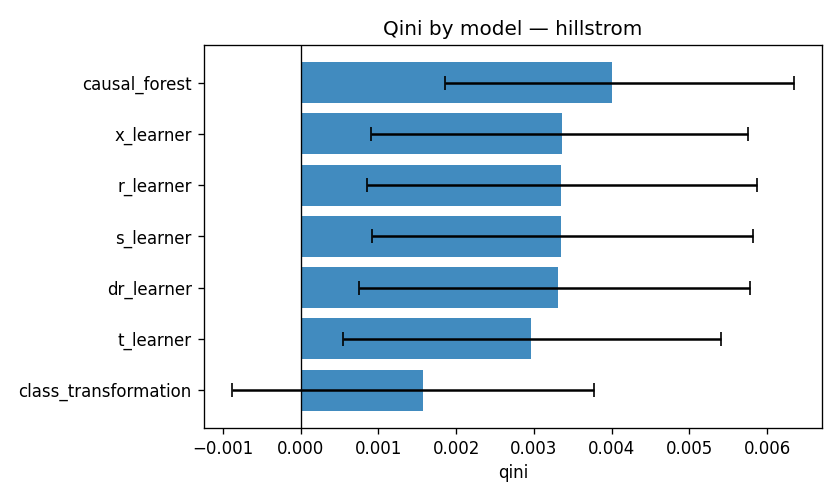
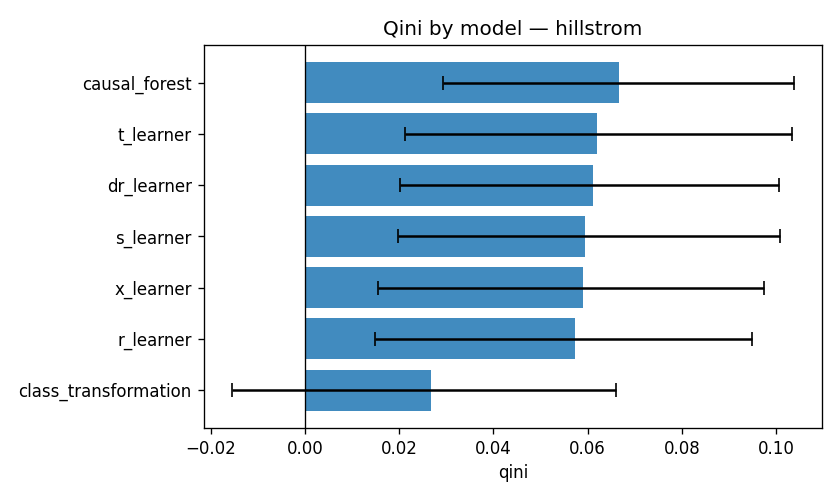
refactor(results): consolidate to per_dataset/ + add results/README + .vscode settings

diff --git a/scripts/run_full_benchmark.py b/scripts/run_full_benchmark.py
@@ -53,6 +53,19 @@ def _build_dataset_cfg(name: str, data_dir: str, criteo_subsample: int | None) -
             "subsample": criteo_subsample,
             "subsample_seed": 42,
         }
+    elif name == "synthetic":
+        # Confounded heterogeneous DGP: meta-learners that handle
+        # propensity should clearly beat S/T baselines here.
+        base["loader_params"] = {
+            "n_samples": 10_000,
+            "n_features": 10,
+            "n_informative_uplift": 4,
+            "treatment_share": 0.5,
+            "propensity_drift": 1.5,
+            "noise": 0.5,
+            "outcome": "binary",
+            "seed": 0,
+        }
     return base
 
 
@@ -181,14 +194,20 @@ def main() -> int:
         return 1
 
     df = aggregate_results(results)
-    csv_path = results_dir / "benchmark_results.csv"
-    md_path = results_dir / "benchmark_results.md"
-    df.to_csv(csv_path, index=False)
-    write_markdown_table(df, md_path)
+    # Write one CSV/MD per dataset under results/per_dataset/. The aggregate
+    # summary (mean ± std across seeds) is produced by aggregate_results.py.
+    per_dataset_dir = results_dir / "per_dataset"
+    per_dataset_dir.mkdir(parents=True, exist_ok=True)
+    written: list[str] = []
+    for ds_name, sub in df.groupby("dataset"):
+        ds_csv = per_dataset_dir / f"{ds_name}.csv"
+        ds_md = per_dataset_dir / f"{ds_name}.md"
+        sub.to_csv(ds_csv, index=False)
+        write_markdown_table(sub, ds_md)
+        written.append(str(ds_csv))
     log.info(
         "benchmark_done",
-        results_csv=str(csv_path),
-        md=str(md_path),
+        per_dataset_csvs=written,
         n_runs=len(results),
         n_failures=len(failures),
     )

diff --git a/scripts/aggregate_results.py b/scripts/aggregate_results.py
@@ -1,10 +1,11 @@
 """Aggregate per-seed runs into a single per-(dataset, model) summary.
 
-Reads `results/<dataset>_results.csv` files (one per dataset run) and
+Reads `results/per_dataset/<dataset>.csv` files (one per dataset run) and
 writes:
     results/benchmark_summary.csv     — per (dataset, model) means / stds
     results/benchmark_summary.md      — markdown for the README
     results/figures/qini_<dataset>.png — bar chart with CIs
+    results/figures/heatmap_qini.png   — model x dataset heatmap (>= 2 datasets)
 """
 
 from __future__ import annotations
@@ -23,7 +24,9 @@ def main() -> int:
     parser = argparse.ArgumentParser()
     parser.add_argument("--results-dir", default="results")
     parser.add_argument(
-        "--inputs", nargs="+", help="explicit list of CSVs; default = results/*_results.csv"
+        "--inputs",
+        nargs="+",
+        help="explicit list of CSVs; default = results/per_dataset/*.csv",
     )
     args = parser.parse_args()
 
@@ -31,7 +34,7 @@ def main() -> int:
     if args.inputs:
         csvs = [Path(p) for p in args.inputs]
     else:
-        csvs = sorted(results_dir.glob("*_results.csv"))
+        csvs = sorted((results_dir / "per_dataset").glob("*.csv"))
     if not csvs:
         raise SystemExit(f"no per-dataset CSVs found under {results_dir}/")
 

diff --git a/results/README.md b/results/README.md
@@ -1,0 +1,41 @@
+# Benchmark results
+
+Real numbers produced by the benchmark pipeline. Layout:
+
+```
+results/
+├── benchmark_summary.csv        ← all (dataset, model) rows, with mean ± std across seeds
+├── benchmark_summary.md         ← same, formatted for the README
+├── per_dataset/                 ← one CSV/MD per dataset (every seed as a row)
+│   ├── hillstrom.csv
+│   ├── hillstrom.md
+│   ├── criteo.csv
+│   ├── criteo.md
+│   └── …
+└── figures/                     ← committed plots referenced from README & docs
+    ├── qini_<dataset>.png       ← per-dataset bar chart with bootstrap CIs
+    └── heatmap_qini.png         ← model × dataset heatmap (when ≥ 2 datasets)
+```
+
+## How the files relate
+
+* The per-dataset CSVs are the primary artefact — each row is one
+  `(model, seed)` evaluation with point estimate + 95% BCa bootstrap CI.
+* `benchmark_summary.{csv,md}` is the aggregate produced by
+  [`scripts/aggregate_results.py`](https://github.com/yablochnikovds/uplift-bench/blob/main/scripts/aggregate_results.py)
+  (mean / std across seeds per (dataset, model) cell).
+* `figures/` is regenerated by the same aggregate script.
+
+## Reproducing
+
+```bash
+uv run python scripts/run_full_benchmark.py \
+  --datasets hillstrom synthetic \
+  --models s_learner t_learner x_learner r_learner dr_learner class_transformation causal_forest \
+  --seeds 42 43 44
+
+uv run python scripts/aggregate_results.py
+```
+
+See [`docs/reproducing.md`](https://yablochnikovds.github.io/uplift-bench/reproducing/)
+for the full recipe.

diff --git a/results/benchmark_summary.md b/results/benchmark_summary.md
@@ -1,16 +1,16 @@
 | dataset   | model                |   qini_mean |   qini_std |   qini_ci_lower |   qini_ci_upper |   auuc |   n_seeds |
 |:----------|:---------------------|------------:|-----------:|----------------:|----------------:|-------:|----------:|
-| criteo    | r_learner            |      0.0036 |   nan      |          0.0026 |          0.0045 | 0.6881 |         1 |
-| criteo    | s_learner            |      0.0036 |   nan      |          0.0025 |          0.0045 | 0.777  |         1 |
-| criteo    | t_learner            |      0.0034 |   nan      |          0.0024 |          0.0043 | 0.6366 |         1 |
-| criteo    | causal_forest        |      0.0033 |   nan      |          0.0022 |          0.0043 | 0.6886 |         1 |
-| criteo    | x_learner            |      0.0032 |   nan      |          0.0022 |          0.0042 | 0.6876 |         1 |
-| criteo    | dr_learner           |      0.0031 |   nan      |          0.002  |          0.004  | 0.7194 |         1 |
-| criteo    | class_transformation |      0.0021 |   nan      |          0.0013 |          0.003  | 0.6403 |         1 |
-| hillstrom | causal_forest        |      0.004  |     0.0003 |          0.0019 |          0.0063 | 0.215  |         3 |
-| hillstrom | x_learner            |      0.0034 |     0.0003 |          0.0009 |          0.0058 | 0.2086 |         3 |
-| hillstrom | r_learner            |      0.0034 |     0.0003 |          0.0009 |          0.0059 | 0.2105 |         3 |
-| hillstrom | s_learner            |      0.0033 |     0.0003 |          0.0009 |          0.0058 | 0.205  |         3 |
-| hillstrom | dr_learner           |      0.0033 |     0.0001 |          0.0008 |          0.0058 | 0.2105 |         3 |
-| hillstrom | t_learner            |      0.003  |     0.0002 |          0.0005 |          0.0054 | 0.2048 |         3 |
-| hillstrom | class_transformation |      0.0016 |     0.0006 |         -0.0009 |          0.0038 | 0.1847 |         3 |
+| hillstrom | causal_forest        |      0.0666 |     0.005  |          0.0292 |          0.1038 | 0.2149 |         3 |
+| hillstrom | t_learner            |      0.0619 |     0.006  |          0.0211 |          0.1035 | 0.2112 |         3 |
+| hillstrom | dr_learner           |      0.0612 |     0.0066 |          0.0201 |          0.1007 | 0.2116 |         3 |
+| hillstrom | s_learner            |      0.0595 |     0.0043 |          0.0197 |          0.1008 | 0.2065 |         3 |
+| hillstrom | x_learner            |      0.0591 |     0.0023 |          0.0154 |          0.0975 | 0.2072 |         3 |
+| hillstrom | r_learner            |      0.0573 |     0.0034 |          0.0149 |          0.0949 | 0.2093 |         3 |
+| hillstrom | class_transformation |      0.0268 |     0.0065 |         -0.0156 |          0.066  | 0.1845 |         3 |
+| synthetic | class_transformation |      0.112  |     0.0125 |          0.0644 |          0.1608 | 0.4042 |         3 |
+| synthetic | t_learner            |      0.0502 |     0.0161 |          0.0081 |          0.0962 | 0.344  |         3 |
+| synthetic | x_learner            |      0.0283 |     0.03   |         -0.0179 |          0.0738 | 0.355  |         3 |
+| synthetic | causal_forest        |      0.025  |     0.0413 |         -0.0211 |          0.0662 | 0.3374 |         3 |
+| synthetic | r_learner            |      0.0194 |     0.0118 |         -0.0249 |          0.0598 | 0.3174 |         3 |
+| synthetic | s_learner            |      0.0191 |     0.0436 |         -0.0283 |          0.0693 | 0.3837 |         3 |
+| synthetic | dr_learner           |      0.0183 |     0.0311 |         -0.0255 |          0.0616 | 0.3194 |         3 |

diff --git a/results/per_dataset/hillstrom.md b/results/per_dataset/hillstrom.md
@@ -1,0 +1,23 @@
+| model                | dataset   |   seed |   qini |   qini_ci_lower |   qini_ci_upper |   auuc |   auuc_raw |   auuc_normalized |   uplift_at_10 |   uplift_at_20 |   uplift_at_30 |   overlap_ess_ratio |   overlap_pct_below_clip |   overlap_pct_above_clip |
+|:---------------------|:----------|-------:|-------:|----------------:|----------------:|-------:|-----------:|------------------:|---------------:|---------------:|---------------:|--------------------:|-------------------------:|-------------------------:|
+| s_learner            | hillstrom |     42 | 0.0546 |          0.0154 |          0.0944 | 0.2065 |     0.0148 |            0.2065 |         0.0811 |         0.0808 |         0.0828 |              0.9285 |                        0 |                        0 |
+| s_learner            | hillstrom |     43 | 0.0617 |          0.022  |          0.1047 | 0.2015 |     0.0144 |            0.2015 |         0.0816 |         0.0711 |         0.0755 |              0.9216 |                        0 |                        0 |
+| s_learner            | hillstrom |     44 | 0.0623 |          0.0216 |          0.1032 | 0.2114 |     0.0151 |            0.2114 |         0.0625 |         0.082  |         0.0909 |              0.9294 |                        0 |                        0 |
+| t_learner            | hillstrom |     42 | 0.0662 |          0.0296 |          0.1082 | 0.22   |     0.0157 |            0.22   |         0.0992 |         0.0909 |         0.0889 |              0.9285 |                        0 |                        0 |
+| t_learner            | hillstrom |     43 | 0.0551 |          0.0107 |          0.097  | 0.1977 |     0.0141 |            0.1977 |         0.1043 |         0.0753 |         0.077  |              0.9216 |                        0 |                        0 |
+| t_learner            | hillstrom |     44 | 0.0645 |          0.0231 |          0.1051 | 0.216  |     0.0154 |            0.216  |         0.0927 |         0.0877 |         0.0847 |              0.9294 |                        0 |                        0 |
+| x_learner            | hillstrom |     42 | 0.0566 |          0.0161 |          0.0961 | 0.2089 |     0.0149 |            0.2089 |         0.0728 |         0.0915 |         0.0882 |              0.9285 |                        0 |                        0 |
+| x_learner            | hillstrom |     43 | 0.0593 |          0.015  |          0.0976 | 0.2007 |     0.0143 |            0.2007 |         0.0841 |         0.081  |         0.088  |              0.9216 |                        0 |                        0 |
+| x_learner            | hillstrom |     44 | 0.0613 |          0.0153 |          0.0987 | 0.2121 |     0.0152 |            0.2121 |         0.0873 |         0.0811 |         0.0928 |              0.9294 |                        0 |                        0 |
+| r_learner            | hillstrom |     42 | 0.0534 |          0.0124 |          0.0881 | 0.2098 |     0.015  |            0.2098 |         0.0607 |         0.0713 |         0.0803 |              0.9285 |                        0 |                        0 |
+| r_learner            | hillstrom |     43 | 0.0594 |          0.0146 |          0.1013 | 0.2045 |     0.0146 |            0.2045 |         0.0941 |         0.0865 |         0.0843 |              0.9216 |                        0 |                        0 |
+| r_learner            | hillstrom |     44 | 0.0592 |          0.0179 |          0.0952 | 0.2135 |     0.0153 |            0.2135 |         0.0674 |         0.0815 |         0.0785 |              0.9294 |                        0 |                        0 |
+| dr_learner           | hillstrom |     42 | 0.0599 |          0.0213 |          0.0993 | 0.2123 |     0.0152 |            0.2123 |         0.0846 |         0.0945 |         0.0817 |              0.9285 |                        0 |                        0 |
+| dr_learner           | hillstrom |     43 | 0.0554 |          0.0098 |          0.0941 | 0.2024 |     0.0145 |            0.2024 |         0.0948 |         0.0791 |         0.076  |              0.9216 |                        0 |                        0 |
+| dr_learner           | hillstrom |     44 | 0.0683 |          0.029  |          0.1086 | 0.2202 |     0.0157 |            0.2202 |         0.0803 |         0.0996 |         0.0961 |              0.9294 |                        0 |                        0 |
+| class_transformation | hillstrom |     42 | 0.023  |         -0.0155 |          0.0651 | 0.1862 |     0.0133 |            0.1862 |         0.0776 |         0.0712 |         0.0636 |              0.9285 |                        0 |                        0 |
+| class_transformation | hillstrom |     43 | 0.0343 |         -0.0097 |          0.0707 | 0.1839 |     0.0131 |            0.1839 |         0.0642 |         0.0711 |         0.0595 |              0.9216 |                        0 |                        0 |
+| class_transformation | hillstrom |     44 | 0.023  |         -0.0215 |          0.0621 | 0.1834 |     0.0131 |            0.1834 |         0.0745 |         0.0665 |         0.0507 |              0.9294 |                        0 |                        0 |
+| causal_forest        | hillstrom |     42 | 0.0723 |          0.0343 |          0.11   | 0.2251 |     0.0161 |            0.2251 |         0.0752 |         0.0843 |         0.087  |              0.9285 |                        0 |                        0 |
+| causal_forest        | hillstrom |     43 | 0.0645 |          0.0272 |          0.1002 | 0.2078 |     0.0148 |            0.2078 |         0.0856 |         0.1017 |         0.0906 |              0.9216 |                        0 |                        0 |
+| causal_forest        | hillstrom |     44 | 0.0629 |          0.0261 |          0.1012 | 0.212  |     0.0151 |            0.212  |         0.0484 |         0.0903 |         0.0926 |              0.9294 |                        0 |                        0 |

diff --git a/results/per_dataset/synthetic.md b/results/per_dataset/synthetic.md
@@ -1,0 +1,23 @@
+| model                | dataset   |   seed |    qini |   qini_ci_lower |   qini_ci_upper |   auuc |   auuc_raw |   auuc_normalized |   uplift_at_10 |   uplift_at_20 |   uplift_at_30 |   overlap_ess_ratio |   overlap_pct_below_clip |   overlap_pct_above_clip |
+|:---------------------|:----------|-------:|--------:|----------------:|----------------:|-------:|-----------:|------------------:|---------------:|---------------:|---------------:|--------------------:|-------------------------:|-------------------------:|
+| s_learner            | synthetic |     42 |  0.0254 |         -0.0246 |          0.0749 | 0.3991 |     0.1013 |            0.3991 |         0.1056 |         0.2316 |         0.1928 |              0.3303 |                   0.1013 |                   0.1119 |
+| s_learner            | synthetic |     43 | -0.0274 |         -0.0689 |          0.0245 | 0.365  |     0.0926 |            0.365  |         0.0331 |         0.1342 |         0.1464 |              0.3316 |                   0.1039 |                   0.1379 |
+| s_learner            | synthetic |     44 |  0.0592 |          0.0087 |          0.1085 | 0.387  |     0.0982 |            0.387  |         0.363  |         0.2952 |         0.2801 |              0.3468 |                   0.1272 |                   0.1039 |
+| t_learner            | synthetic |     42 |  0.0609 |          0.0166 |          0.1043 | 0.3653 |     0.0927 |            0.3653 |         0.297  |         0.2387 |         0.2325 |              0.3303 |                   0.1013 |                   0.1119 |
+| t_learner            | synthetic |     43 |  0.0317 |         -0.0047 |          0.0796 | 0.3217 |     0.0816 |            0.3217 |         0.25   |         0.2557 |         0.2361 |              0.3316 |                   0.1039 |                   0.1379 |
+| t_learner            | synthetic |     44 |  0.0581 |          0.0124 |          0.1047 | 0.345  |     0.0875 |            0.345  |         0.4542 |         0.3648 |         0.3144 |              0.3468 |                   0.1272 |                   0.1039 |
+| x_learner            | synthetic |     42 |  0.0289 |         -0.0188 |          0.0757 | 0.3711 |     0.0942 |            0.3711 |         0.2047 |         0.1389 |         0.1988 |              0.3303 |                   0.1013 |                   0.1119 |
+| x_learner            | synthetic |     43 | -0.0019 |         -0.0461 |          0.0426 | 0.3313 |     0.0841 |            0.3313 |         0.0936 |         0.165  |         0.1332 |              0.3316 |                   0.1039 |                   0.1379 |
+| x_learner            | synthetic |     44 |  0.0581 |          0.0111 |          0.1031 | 0.3625 |     0.092  |            0.3625 |         0.2603 |         0.2627 |         0.2748 |              0.3468 |                   0.1272 |                   0.1039 |
+| r_learner            | synthetic |     42 |  0.0095 |         -0.0339 |          0.0483 | 0.3039 |     0.0771 |            0.3039 |         0.173  |         0.1879 |         0.1918 |              0.3303 |                   0.1013 |                   0.1119 |
+| r_learner            | synthetic |     43 |  0.0163 |         -0.0266 |          0.0592 | 0.318  |     0.0807 |            0.318  |         0.1774 |         0.2379 |         0.2452 |              0.3316 |                   0.1039 |                   0.1379 |
+| r_learner            | synthetic |     44 |  0.0324 |         -0.0141 |          0.072  | 0.3304 |     0.0838 |            0.3304 |         0.3285 |         0.29   |         0.2393 |              0.3468 |                   0.1272 |                   0.1039 |
+| dr_learner           | synthetic |     42 |  0.0181 |         -0.0282 |          0.0597 | 0.3282 |     0.0833 |            0.3282 |         0.1911 |         0.2265 |         0.1871 |              0.3303 |                   0.1013 |                   0.1119 |
+| dr_learner           | synthetic |     43 | -0.0128 |         -0.0565 |          0.0298 | 0.2947 |     0.0748 |            0.2947 |         0.1204 |         0.1673 |         0.1553 |              0.3316 |                   0.1039 |                   0.1379 |
+| dr_learner           | synthetic |     44 |  0.0495 |          0.0083 |          0.0952 | 0.3352 |     0.0851 |            0.3352 |         0.3183 |         0.2947 |         0.2817 |              0.3468 |                   0.1272 |                   0.1039 |
+| class_transformation | synthetic |     42 |  0.1049 |          0.0587 |          0.1543 | 0.3977 |     0.1009 |            0.3977 |         0.352  |         0.3705 |         0.3196 |              0.3303 |                   0.1013 |                   0.1119 |
+| class_transformation | synthetic |     43 |  0.1265 |          0.0801 |          0.1735 | 0.4148 |     0.1052 |            0.4148 |         0.4255 |         0.3992 |         0.3683 |              0.3316 |                   0.1039 |                   0.1379 |
+| class_transformation | synthetic |     44 |  0.1046 |          0.0545 |          0.1547 | 0.4003 |     0.1016 |            0.4003 |         0.3409 |         0.3997 |         0.3367 |              0.3468 |                   0.1272 |                   0.1039 |
+| causal_forest        | synthetic |     42 |  0.0002 |         -0.0542 |          0.0435 | 0.3643 |     0.0924 |            0.3643 |         0.1289 |         0.1891 |         0.1654 |              0.3303 |                   0.1013 |                   0.1119 |
+| causal_forest        | synthetic |     43 |  0.0022 |         -0.0382 |          0.0416 | 0.309  |     0.0784 |            0.309  |         0.13   |         0.1236 |         0.1541 |              0.3316 |                   0.1039 |                   0.1379 |
+| causal_forest        | synthetic |     44 |  0.0728 |          0.0291 |          0.1136 | 0.3388 |     0.086  |            0.3388 |         0.2157 |         0.2648 |         0.328  |              0.3468 |                   0.1272 |                   0.1039 |